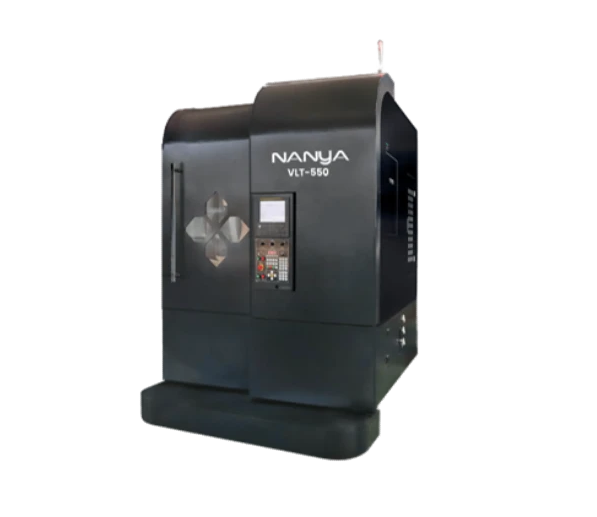
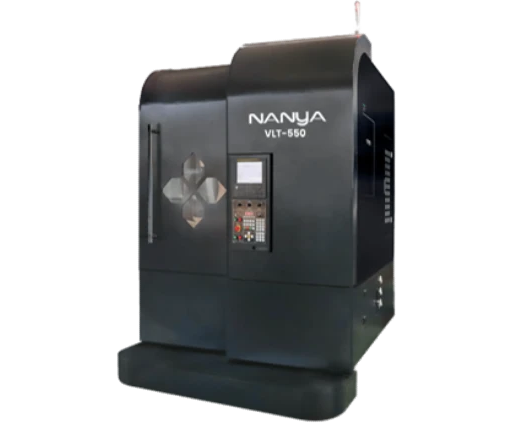
issues resolved

Changed region(s): [[0.2175, 0.0, 0.7767, 0.9931]]

diff --git a/components/UI/productCard.tsx b/components/UI/productCard.tsx
@@ -11,11 +11,11 @@ const ProductCard: React.FC<ProductCardProps> = ({ id, name, image }) => {
 	return (
 		<Link href={`/products/${id}/product/${name}/details`}>
 			<div className="bg-white rounded-2xl overflow-hidden group hover:shadow-[0_20px_50px_rgba(255,115,0,0.15)] transition-all duration-500 border border-gray-100">
-				<div className="relative h-72 overflow-hidden bg-gray-100 scale-75">
+				<div className="relative h-90 overflow-hidden bg-gray-100 scale-75">
 					<img
 						src={image}
 						alt={name}
-						className="w-full h-full object-fit grayscale group-hover:grayscale-0 scale-115 transition-all duration-700 group-hover:scale-120"
+						className="w-full h-full object-fit grayscale group-hover:grayscale-0 scale-110 transition-all duration-700 group-hover:scale-115"
 					/>
 					<div className="absolute top-4 right-4 bg-orange-500 text-white text-xs font-bold px-3 py-1 rounded-full opacity-0 group-hover:opacity-100 transition-opacity duration-300">
 						VIEW

diff --git a/context/productContext.tsx b/context/productContext.tsx
@@ -2059,7 +2059,7 @@ const products: Product[] = [
 		models: [
 			{
 				name: "3015S",
-				image: "/hbd/hd2.png",
+				image: "/hbd/hd1.png",
 				download: "/documents/3105S.pdf",
 				feature:
 					"High Precision Slant Bed CNC Lathe 3015S designed for heavy duty turning applications.",
